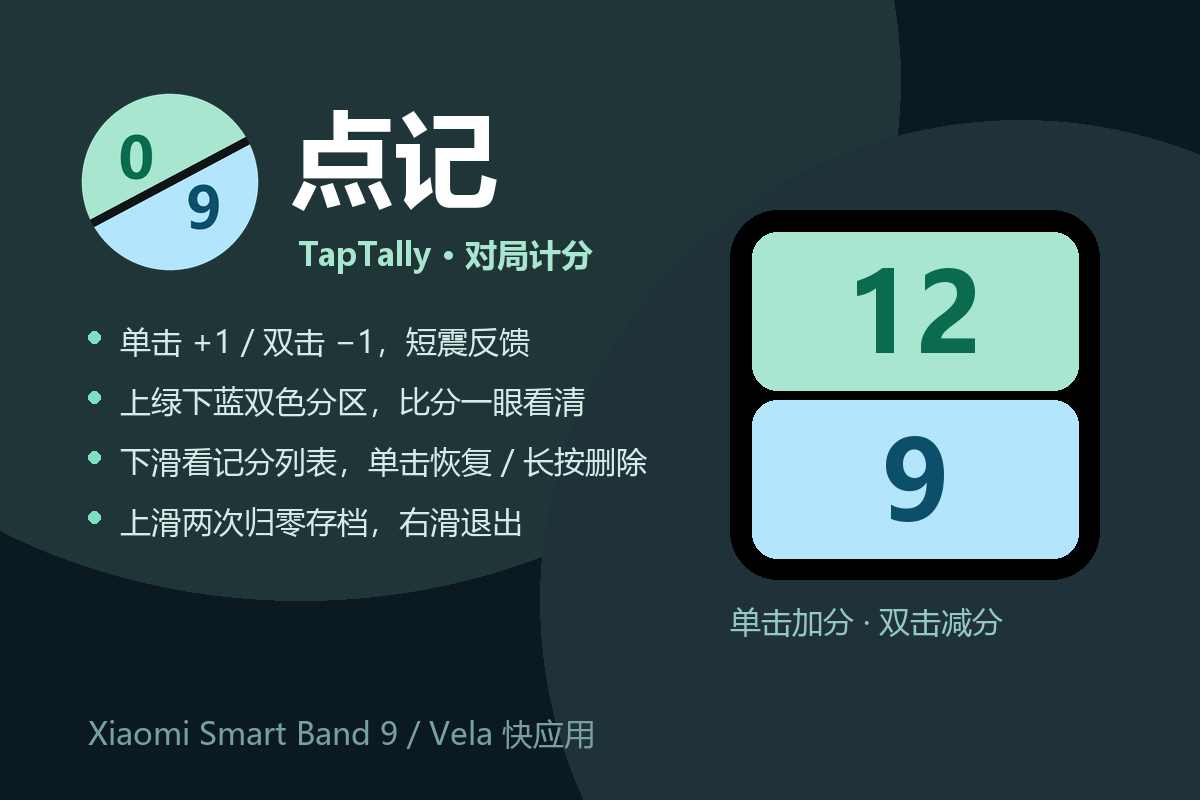
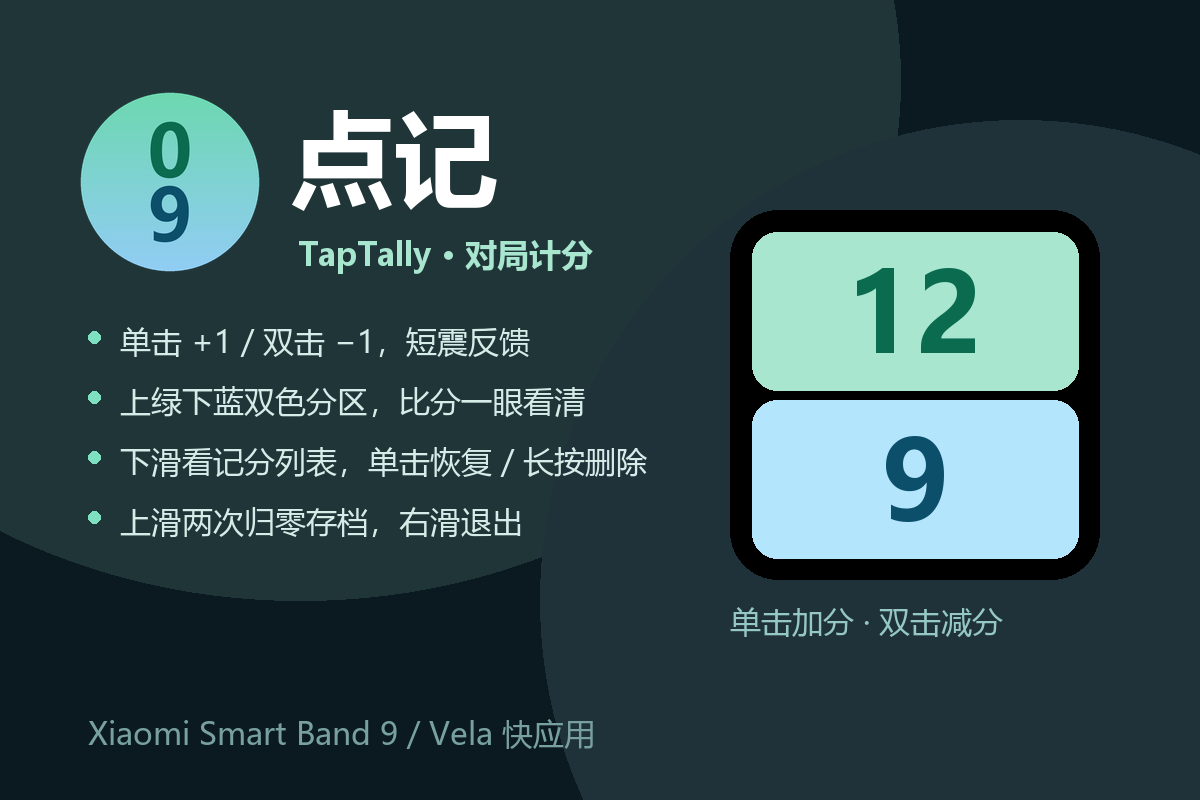
feat: 1.3.6 图标改渐变、去分隔线、数字放大靠拢
- make_logo 改成竖向渐变圆底（无斜线）
- 数字 0.40S，中心 0.322/0.678，视觉更靠拢
- 同步 media/icon.png(128) / cover / preview 与 src/common/logo.png

Changed region(s): [[0.0617, 0.0938, 0.2158, 0.3438]]

diff --git a/src/common/store.js b/src/common/store.js
@@ -18,7 +18,7 @@ const RECORD_FILE = 'internal://files/taptally-records.txt'
 export const MAX_RECORDS = 5
 
 // 版本号（页面里显示，用来确认手环上跑的到底是哪一版）
-export const APP_VERSION = '1.3.5'
+export const APP_VERSION = '1.3.6'
 
 // 内存缓存
 let scoreCache = null // { t, b }

diff --git a/publish/gen_assets.py b/publish/gen_assets.py
@@ -19,6 +19,8 @@ FONT_B = r"C:\Windows\Fonts\msyhbd.ttc"
 FONT_R = r"C:\Windows\Fonts\msyh.ttc"
 
 GREEN = (168, 230, 207, 255)
+GREEN_C = (109, 216, 176)   # 渐变上端（偏深的薄荷绿）
+BLUE_C = (146, 205, 245)    # 渐变下端（浅蓝）
 BLUE = (179, 229, 252, 255)
 DARK = (14, 20, 24, 255)
 GREEN_TXT = (11, 107, 79, 255)
@@ -33,38 +35,40 @@ def rounded(size, radius, fill):
     return img
 
 
-def make_logo(size, ss=4, tilt=28.0, gapf=0.045, dist=0.210, along=0.100, fs=0.320):
-    """圆形图标：斜向分隔线（左下 → 右上，"/" 方向），0 居左上、9 居右下。
+def vgrad_circle(size, c_top, c_bot):
+    """生成 size×size 的竖向线性渐变色块（RGB）。"""
+    base = Image.new("RGB", (1, size))
+    d = ImageDraw.Draw(base)
+    for y in range(size):
+        t = y / float(size - 1)
+        d.point((0, y), fill=(
+            int(c_top[0] + (c_bot[0] - c_top[0]) * t),
+            int(c_top[1] + (c_bot[1] - c_top[1]) * t),
+            int(c_top[2] + (c_bot[2] - c_top[2]) * t),
+        ))
+    return base.resize((size, size), Image.BILINEAR)
 
-    手环 9 的图标是圆形裁切，所以图形本身是圆、内容全部落在圆内（留约 6% 边距）。
-    分隔线与数字位置都用同一个倾角参数推导，保证任何尺寸下数字都居中于各自半区。
+
+def make_logo(size, ss=4, digit_fs=0.400, cy_top=0.322, cy_bot=0.678):
+    """圆形图标：上绿下蓝**渐变**背景（无分隔线），0 在上、9 在下，数字大而靠拢。
+
+    手环列表按圆形裁切，所以图形本身画成圆；数字全部落在圆内安全区。
     """
     S = size * ss
-    inner = Image.new("RGBA", (S, S), (0, 0, 0, 0))
-    di = ImageDraw.Draw(inner)
-    gap = max(2, int(S * gapf))
-    di.rectangle([0, 0, S, S // 2 - gap // 2], fill=GREEN)
-    di.rectangle([0, S // 2 + gap // 2, S, S], fill=BLUE)
-    di.rectangle([0, S // 2 - gap // 2 - 1, S, S // 2 + gap // 2], fill=(14, 20, 24, 255))
-    inner = inner.rotate(tilt, resample=Image.BICUBIC, expand=False)
-
+    grad = vgrad_circle(S, GREEN_C, BLUE_C)
+    grad = grad.convert("RGBA")
     mask = Image.new("L", (S, S), 0)
-    pad = int(S * 0.01)
+    pad = int(S * 0.005)
     ImageDraw.Draw(mask).ellipse([pad, pad, S - 1 - pad, S - 1 - pad], fill=255)
     img = Image.new("RGBA", (S, S), (0, 0, 0, 0))
-    img.paste(inner, (0, 0), mask)
+    img.paste(grad, (0, 0), mask)
 
-    t = math.radians(tilt)
-    u = (math.cos(t), -math.sin(t))   # 沿分隔线（指向右上方）
-    n = (math.sin(t), math.cos(t))    # 法线（指向右下方）
     d = ImageDraw.Draw(img)
-    font = ImageFont.truetype(FONT_B, int(S * fs))
-    for sign, txt, color in ((-1, "0", GREEN_TXT), (1, "9", BLUE_TXT)):
-        cx = 0.5 + sign * (dist * n[0] + along * u[0])
-        cy = 0.5 + sign * (dist * n[1] + along * u[1])
+    font = ImageFont.truetype(FONT_B, int(S * digit_fs))
+    for txt, cy, color in (("0", cy_top, GREEN_TXT), ("9", cy_bot, BLUE_TXT)):
         bb = d.textbbox((0, 0), txt, font=font)
         w, h = bb[2] - bb[0], bb[3] - bb[1]
-        d.text((S * cx - w / 2 - bb[0], S * cy - h / 2 - bb[1]), txt, font=font, fill=color)
+        d.text((S * 0.5 - w / 2 - bb[0], S * cy - h / 2 - bb[1]), txt, font=font, fill=color)
     return img.resize((size, size), Image.LANCZOS)
 
 

diff --git a/docs/CHANGELOG.md b/docs/CHANGELOG.md
@@ -74,3 +74,11 @@
   而单击是延迟 300ms 才落分的，于是长按的 −1 之后又被补了一次 +1。
   现在长按处理里先取消挂起的单击定时器并打上 `longMark`，`tap()` 见到标记直接丢弃该次点击；
   列表页同样加了保护（长按删除后不会再触发单击恢复）
+
+## 1.3.6（versionCode 12）
+
+图标改版（用户要求）：
+
+- **去掉斜向分隔黑线**，上半绿、下半蓝改为**竖向渐变**过渡
+- 数字 **放大**（0.365S → 0.400S），上下**靠拢**（中心 0.272/0.728 → 0.322/0.678）
+- 新增 `vgrad_circle()` 生成渐变底色；`GREEN_C`(#6dd8b0) → `BLUE_C`(#92cdf5)
